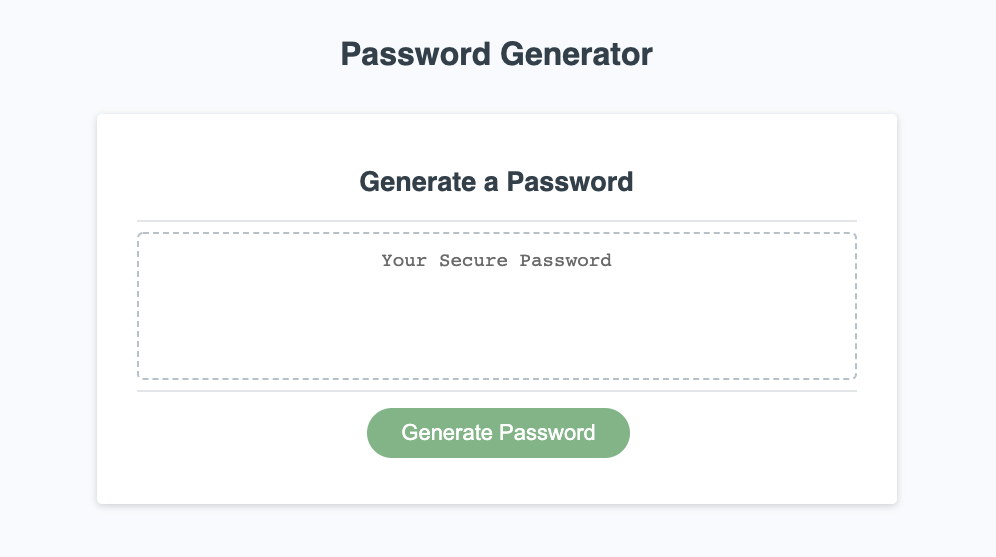
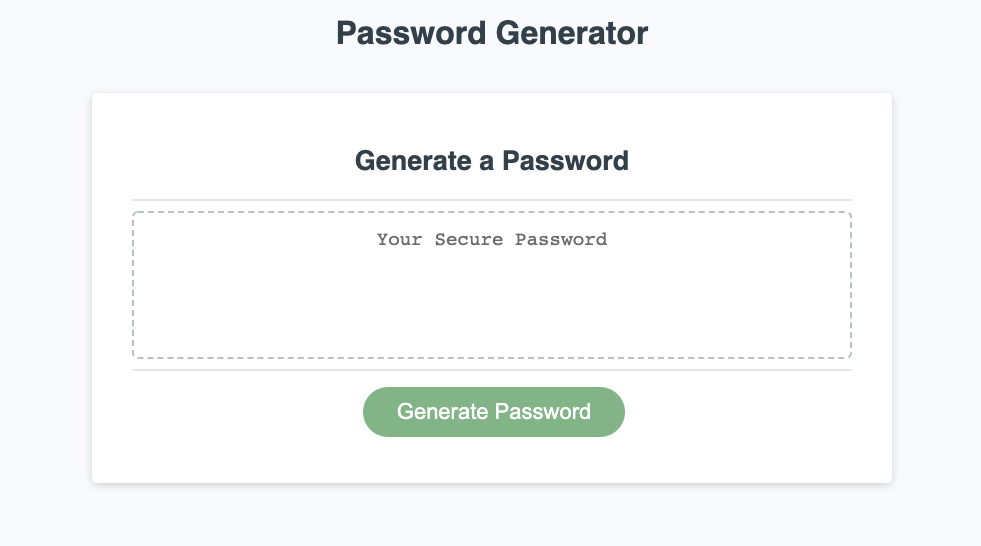
replaced screenshots with legit before and after ones and updated README with both.

diff --git a/README.md b/README.md
@@ -21,7 +21,7 @@ Before:
 ![Screenshot](assets/images/screenshot.png)
 
 After:
-![Screenshot](assets/images/screenshot.png)
+![Screenshot](assets/images/screenshot2.png)
 
 
 ## Links
